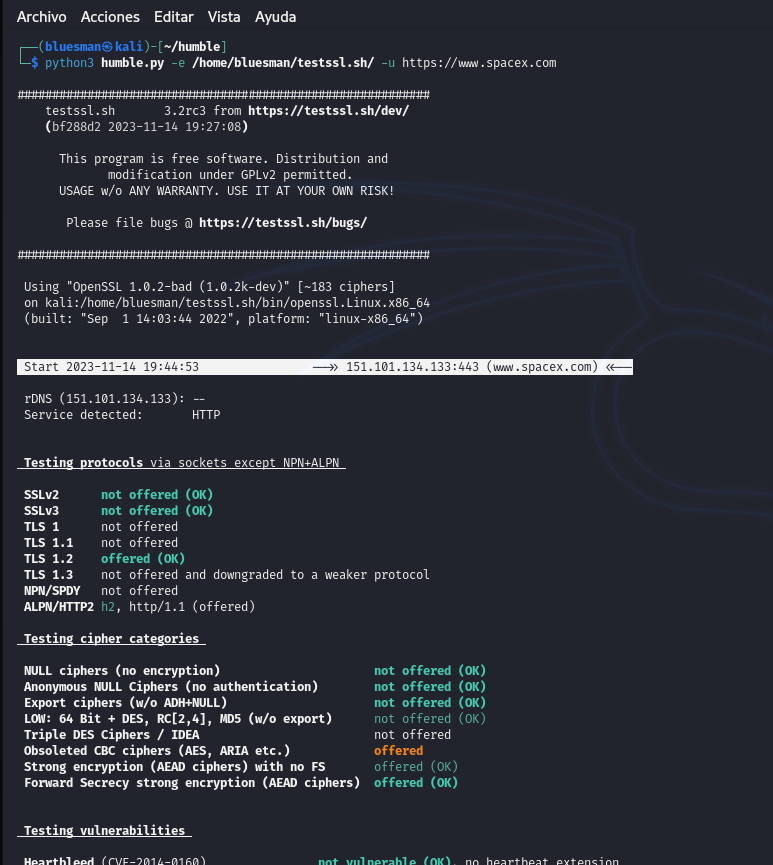
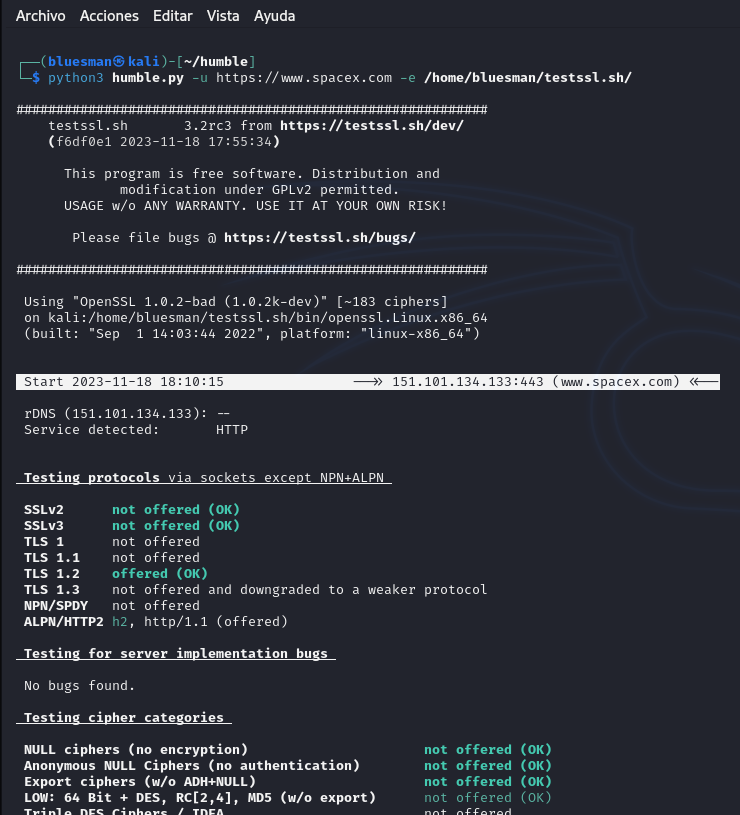
Minor: README and screenshot updated & TLS/SSL checks improved

Changed region(s): [[0.0, 0.0, 0.9946, 1.0], [0.4973, 0.7055, 0.6527, 0.7362]]

diff --git a/humble.py b/humble.py
@@ -293,41 +293,33 @@ def testssl_params(directory, uri):
     if not path.isfile(testssl_file):
         sys.exit(f"\n{get_detail('[notestssl_path]')}")
     else:
-        testssl_analysis(testssl_file, uri)
+        # Check './testssl.sh --help' to choose your preferred options
+        command = f'{testssl_file} -f -g -p -U -s --hints "{uri}"'
+        testssl_analysis(command)
 
 
-def testssl_analysis(testssl_file, uri):
-    # Check './testssl.sh --help' to choose your preferred options:
-    # -p: checks TLS/SSL protocols (including SPDY/HTTP2)
-    # -U: tests all vulnerabilities (if applicable)
-    # -s: tests standard cipher categories by strength
-    # --hints: additional hints to findings
-    command = f'{testssl_file} -p -U -s --hints "{uri}"'
+def testssl_analysis(command):
     try:
         process = subprocess.Popen(command, shell=True,
                                    stdout=subprocess.PIPE,
                                    stderr=subprocess.PIPE, text=True)
         while True:
-            line = process.stdout.readline()
-            if not line:
+            ln = process.stdout.readline()
+            if not ln:
                 break
-            print(line, end='')
-
-            if 'Done' in line:
+            print(ln, end='')
+            if 'Done' in ln:
                 process.terminate()
                 process.wait()
                 sys.exit()
 
         stdout, stderr = process.communicate()
-
-        if stdout:
-            print(stdout)
-        if stderr:
-            print(stderr)
+        print(stdout or '')
+        print(stderr or '')
     except subprocess.CalledProcessError as e:
         print(e.stderr)
     except Exception as e:
-        print(f"Error running testssl analysis!: {e}")
+        print(f"Error running testssl.sh analysis!: {e}")
 
 
 def get_details_lines():

diff --git a/README.md b/README.md
@@ -82,7 +82,10 @@ HTTP Headers Analyzer<br />
 <img src="https://github.com/rfc-st/humble/blob/master/screenshots/humble.PNG" alt="Full analysis" width=70% height=70%>
 </p>
 <br />
-.: (Linux) - TLS/SSL checks (requires https://testssl.sh/ and Unix machine (for now!).<br />
+.: (Linux) - TLS/SSL checks (requires https://testssl.sh/ and Unix machine, for now!).<br />
+```
+$ Options used: -f -g -p -U -s --hints
+```
 <p></p>
 <p align="center">
 <img src="https://github.com/rfc-st/humble/blob/master/screenshots/humble_encryption_s.PNG" alt="TLS/SSL analysis" width=70% height=70%>
